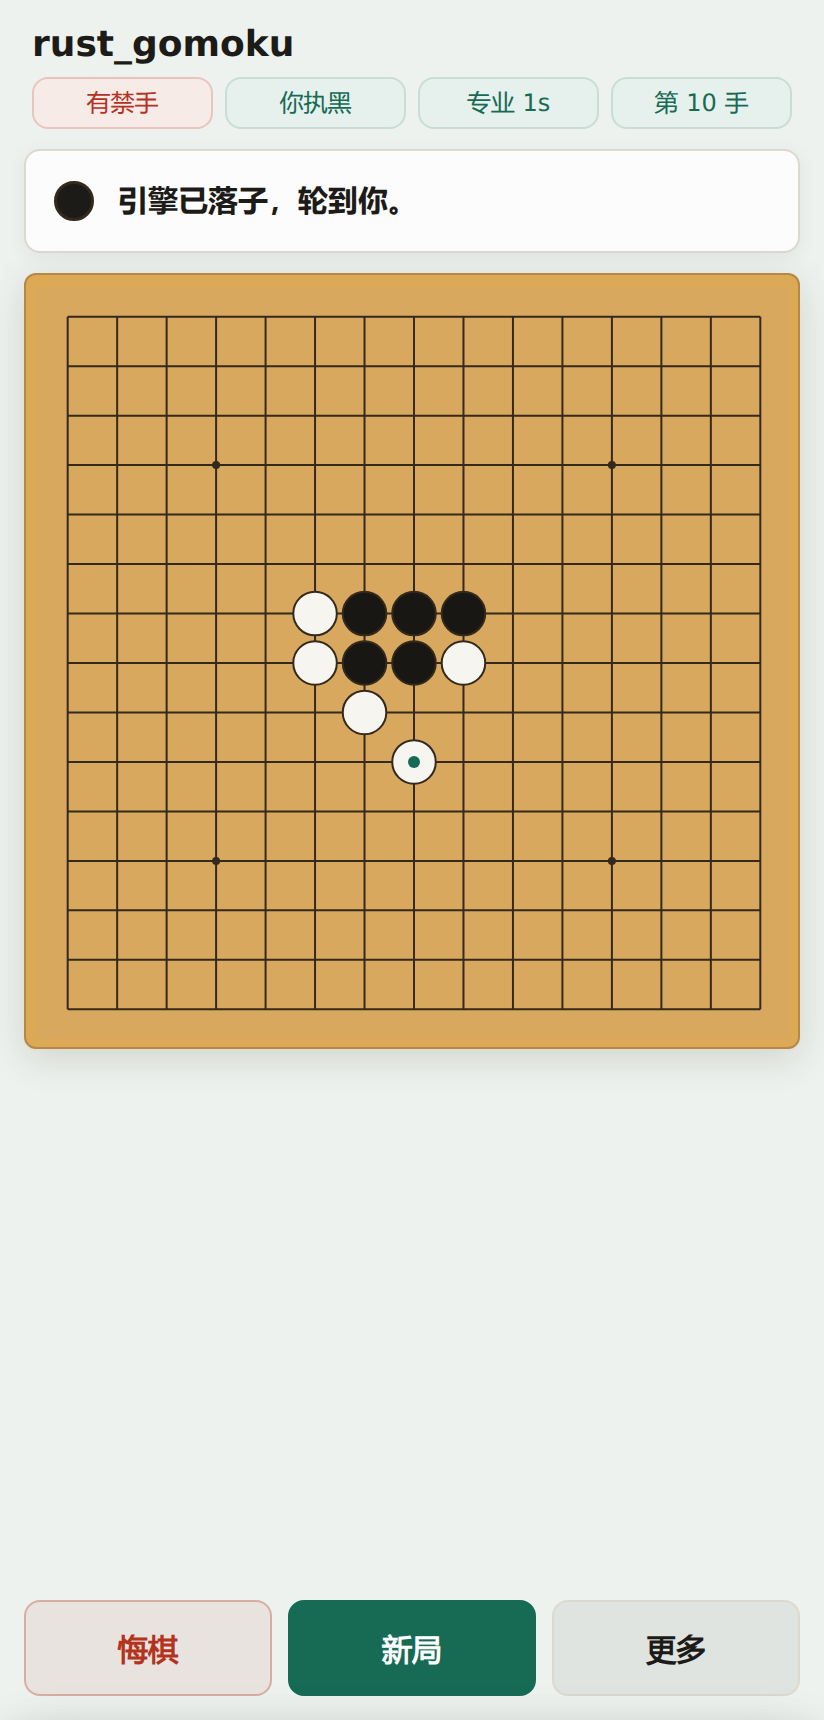
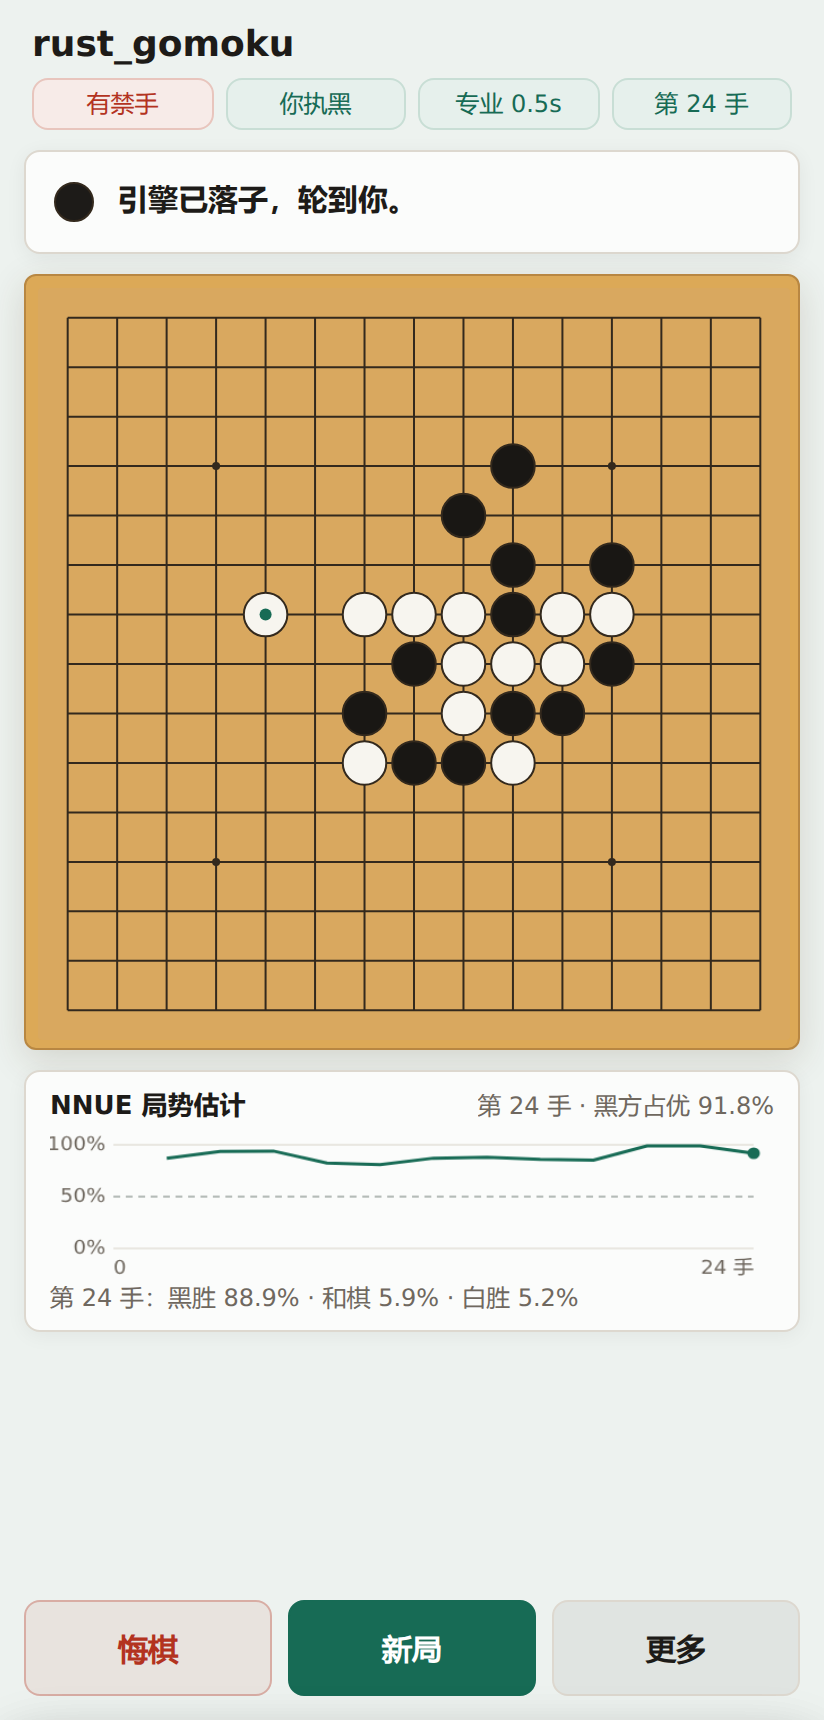
docs: expand README guides and refresh screenshots

diff --git a/README.md b/README.md
@@ -1,29 +1,46 @@
 # rust_gomoku
 
-`rust_gomoku` is a high-strength 15×15 Gomoku engine written in Rust. It supports Freestyle and Renju and is developed for strong play under practical time controls, reliable rule enforcement, and low search latency.
+`rust_gomoku` is a 15×15 Gomoku engine written in Rust, built for strong play under practical time controls. It supports **Freestyle** and **Renju** and powers a desktop browser interface, an Android app, and a Gomocup engine.
 
-[简体中文](README-cn.md) · [Downloads](https://github.com/chubbyk-uu/rust-gomoku/releases/latest) · [Documentation](docs/README.md)
+[简体中文](README-cn.md) · [Latest release](https://github.com/chubbyk-uu/rust-gomoku/releases/latest) · [Documentation](docs/README.md)
 
-- **Search** — native `Mix9svq` NNUE with SIMD acceleration, incremental board evaluation, tactical search, and Lazy SMP. Classical search supports play without network weights and the Casual difficulty presets.
-- **Play** — desktop browser UI and Android ARM64 app, with engine play and local two-player games. Pro mode offers a live NNUE win-rate estimate and selectable time per move.
-- **Integrate** — the `gomocup_engine` executable uses the Gomocup stdin/stdout protocol.
+## Download and play
 
-## Play
+| Platform | How to start |
+|---|---|
+| Windows x64 | Extract the release ZIP and run `gomoku_gui.exe`. It opens the game in your browser. Keep the bundled `nnue/` directory next to the executable for Pro mode. |
+| Android ARM64 | Install the signed APK from the release page. It includes the weights for both rules. An AAB is provided for distribution. |
+| Linux or Gomocup | Build from source and run the desktop interface or the `gomocup_engine` command below. |
 
-Download the Windows x64 build or the Android ARM64 APK from [GitHub Releases](https://github.com/chubbyk-uu/rust-gomoku/releases/latest). Android AABs are also provided for distribution.
+The desktop and Android interfaces support engine play and local two-player games. In Renju, the board marks forbidden moves for Black and rejects them as input.
 
-![Desktop GUI during a Renju game](docs/screenshots/desktop-gui.png)
+| Mode | What it uses |
+|---|---|
+| **Pro** | Native `Mix9svq` NNUE and a per-move budget of **1 second** by default. Also supports 0.5, 2.5, and 5 seconds, a multithreaded search toggle, and a win-rate estimate chart. |
+| **Casual** | Classical fixed-depth search at Beginner, Normal, Senior, or Master. It runs without NNUE weights. |
+
+## Screenshots
+
+**Desktop · Renju in Pro mode.** The right panel shows the NNUE win-rate estimate and the last move's search time.
+
+![Desktop game against the engine with a Renju board, move time, and NNUE win-rate chart](docs/screenshots/desktop-gui.png)
+
+**Android · Game and new-game settings.** These are browser captures of the released Android interface, connected to the Rust JNI bridge on the development machine.
 
 <p>
-  <img src="docs/screenshots/android-portrait.png" alt="Android Renju game in portrait mode" width="280">
-  <img src="docs/screenshots/android-difficulty.png" alt="Android Pro and Casual settings" width="280">
+  <img src="docs/screenshots/android-portrait.png" alt="Android portrait preview with the Renju board and win-rate chart" width="280">
+  <img src="docs/screenshots/android-difficulty.png" alt="Android new-game settings with Pro mode and time presets" width="280">
 </p>
 
-[Android landscape view](docs/screenshots/android-landscape.png)
+[View the Android landscape layout](docs/screenshots/android-landscape.png).
 
-Pro mode defaults to 1 second per move and also offers 0.5, 2.5, and 5 seconds. Casual mode offers Beginner, Normal, Senior, and Master. The UI marks and rejects forbidden black moves in Renju. See the [rules guide](docs/renju-forbidden-design.md) for supported rules and opening options.
+## Engine
 
-## Build and run
+The native NNUE engine combines incremental board patterns and evaluation, tactical QVCF, and Lazy SMP. Inference uses AVX2 or AVX-VNNI on supported x86-64 CPUs, and NEON with dot-product acceleration where available on ARM64.
+
+Freestyle uses one set of Mix9svq weights for both colors. Renju loads separate Black and White networks. The project uses compatible Rapfi weights. See the [engine guide](docs/engine.md#nnue-weights) for filenames, search paths, and classical presets.
+
+## Build from source
 
 ```bash
 cargo build --release --locked
@@ -31,21 +48,33 @@ cargo test --locked
 cargo run --release --bin gomoku_gui
 ```
 
-The desktop GUI opens `http://127.0.0.1:18080`. Use `-- --nnue-dir /path/to/weights` to load Pro weights explicitly. See the [engine guide](docs/engine.md#nnue-weights) for filenames and discovery order.
+The desktop interface opens at `http://127.0.0.1:18080`. To specify a weight directory, run `cargo run --release --bin gomoku_gui -- --nnue-dir /path/to/weights`.
 
-Run the Gomocup engine with NNUE:
+### Use the Gomocup engine
 
 ```bash
-target/release/gomocup_engine --nnue-dir /path/to/weights
+printf 'START 15\nINFO rule 4\nINFO timeout_turn 1000\nBEGIN\nEND\n' | \
+  target/release/gomocup_engine --nnue-dir /path/to/weights --threads 4
 ```
 
-For protocol options and a smoke test, see the [Gomocup guide](docs/gomocup.md). For Android builds and signing, see the [Android guide](docs/android-app-design.md).
+`INFO rule 4` selects Renju. Use `INFO rule 0` for Freestyle. Gomocup uses classical search when no weight directory is configured. The [protocol guide](docs/gomocup.md) covers clocks, memory, fixed-depth runs, and diagnostics. Build and signing instructions for Android are in the [Android guide](docs/android-app-design.md).
 
 ## Playing strength
 
-In the 2026-11-28 development build, a same-weight, 1-second-per-move match against Rapfi scored **50.92% over 600 games** across both rules and 1T/4T. The 95% interval was **49.25%–52.58%**. See the [results and reproducibility notes](docs/perf-log.md) for the individual matchups and Renju 1T repeat.
+The engine build tested for `v0.1.21` scored **50.92%** over 600 games against Rapfi at one second per move. Both engines used the same weights and thread counts, and each opening was played in both colors. Scores count draws as half a point.
 
-See [testing](docs/testing.md) for regression checks and match commands, and the [roadmap](docs/optimization-roadmap.md) for current development priorities.
+| Matchup | Games | W–L–D | Score |
+|---|---:|---:|---:|
+| Freestyle 1T | 100 | 39–40–21 | 49.50% |
+| Freestyle 4T | 100 | 43–34–23 | 54.50% |
+| Renju 1T | 200 | 85–84–31 | 50.25% |
+| Renju 4T | 200 | 82–80–38 | 50.50% |
+
+The combined 95% interval was **49.25%–52.58%**. A second run of the same Renju 1T matchup scored **53.00%**, for **51.63%** over the two runs. See the [match log](docs/perf-log.md) for the settings, timings, and paired comparisons.
+
+## Development
+
+Start with the [testing guide](docs/testing.md) for match commands, rule fixtures, and fixed-position regressions. The [documentation index](docs/README.md) links to the engine, Renju rules, and [current roadmap](docs/optimization-roadmap.md).
 
 ## License
 

diff --git a/README-cn.md b/README-cn.md
@@ -1,29 +1,46 @@
 # rust_gomoku
 
-`rust_gomoku` 是一个用 Rust 编写、以高棋力为目标的 15×15 五子棋引擎，支持自由五子棋（Freestyle）和连珠（Renju）。项目重点是实战限时下的棋力、规则正确性和搜索响应。
+`rust_gomoku` 是一个用 Rust 编写的 15×15 五子棋引擎，以实战限时下的棋力、规则正确性和搜索响应为目标。支持**自由五子棋（Freestyle）**和**连珠（Renju）**，提供桌面浏览器界面、Android 应用和 Gomocup 引擎。
 
-[English](README.md) · [下载](https://github.com/chubbyk-uu/rust-gomoku/releases/latest) · [文档目录](docs/README.md)
-
-- **搜索** — 原生 `Mix9svq` NNUE、SIMD 加速、增量棋盘评估、战术搜索和 Lazy SMP。经典搜索可在缺少权重时运行，也是休闲模式的基础。
-- **对弈** — 桌面浏览器界面和 Android ARM64 应用，支持人机与本地双人对弈。专业模式可切换单手用时，并显示 NNUE 胜率估计曲线。
-- **接入** — `gomocup_engine` 通过标准输入输出提供 Gomocup 协议。
+[English](README.md) · [下载最新版](https://github.com/chubbyk-uu/rust-gomoku/releases/latest) · [文档目录](docs/README.md)
 
 ## 下载和对弈
 
-在 [GitHub Releases](https://github.com/chubbyk-uu/rust-gomoku/releases/latest) 下载 Windows x64 版本或 Android ARM64 APK。Android 也提供用于分发的 AAB。
+| 平台 | 如何开始 |
+|---|---|
+| Windows x64 | 解压发布 ZIP，运行 `gomoku_gui.exe`，浏览器会打开棋盘。使用专业模式时，把随附的 `nnue/` 目录留在程序旁边。 |
+| Android ARM64 | 从发布页下载并安装签名 APK，已包含两种规则的权重。发布页也提供用于分发的 AAB。 |
+| Linux 或 Gomocup | 从源码构建后运行桌面界面，或按下文启动 `gomocup_engine`。 |
 
-![桌面界面的连珠对局](docs/screenshots/desktop-gui.png)
+桌面和 Android 均支持人机对弈和本地双人对弈。连珠模式下，棋盘会标出黑方禁手并拦截落子。
+
+| 模式 | 搜索与选项 |
+|---|---|
+| **专业** | 原生 `Mix9svq` NNUE，默认**单手 1 秒**，可选 0.5、2.5 或 5 秒。支持多线程切换和局势胜率估计曲线。 |
+| **休闲** | 使用经典固定深度搜索，分入门、普通、高级和大师四档。无需 NNUE 权重。 |
+
+## 界面截图
+
+**桌面 · 连珠专业模式。** 右侧显示 NNUE 胜率估计曲线和最近一手的搜索耗时。
+
+![桌面连珠人机对局，右侧显示搜索耗时和 NNUE 胜率曲线](docs/screenshots/desktop-gui.png)
+
+**Android · 对局和新局设置。** 这是发布包中 Android 界面的浏览器预览，连接开发机上的 Rust JNI 桥接运行。
 
 <p>
-  <img src="docs/screenshots/android-portrait.png" alt="Android 竖屏连珠对局" width="280">
-  <img src="docs/screenshots/android-difficulty.png" alt="Android 专业和休闲模式设置" width="280">
+  <img src="docs/screenshots/android-portrait.png" alt="Android 竖屏连珠棋盘和胜率曲线预览" width="280">
+  <img src="docs/screenshots/android-difficulty.png" alt="Android 新局设置中的专业模式和限时档位" width="280">
 </p>
 
-[Android 横屏界面](docs/screenshots/android-landscape.png)
+[查看 Android 横屏布局](docs/screenshots/android-landscape.png)。
 
-专业模式默认单手 1 秒，也可选 0.5、2.5 或 5 秒。休闲模式提供入门、普通、高级和大师四档。连珠对局中，界面会标记并拦截黑方禁手。支持的规则和开局范围见[连珠指南](docs/renju-forbidden-design.md)。
+## 引擎
 
-## 构建和运行
+原生 NNUE 搜索使用增量棋型与评估、QVCF 战术搜索和 Lazy SMP。推理在支持的 x86-64 CPU 上使用 AVX2 或 AVX-VNNI，在 ARM64 上使用 NEON，并在支持时启用点积加速。
+
+自由五子棋黑白共用一套 Mix9svq 权重，连珠黑白分别加载各自的权重。项目使用兼容的 Rapfi 权重，文件名、查找顺序和经典模式参数见[引擎指南](docs/engine.md#nnue-weights)。
+
+## 从源码构建
 
 ```bash
 cargo build --release --locked
@@ -31,21 +48,33 @@ cargo test --locked
 cargo run --release --bin gomoku_gui
 ```
 
-桌面界面会打开 `http://127.0.0.1:18080`。可在运行命令后加 `-- --nnue-dir /path/to/weights` 指定专业模式权重。文件名和查找顺序见[引擎指南](docs/engine.md#nnue-weights)。
+桌面界面会打开 `http://127.0.0.1:18080`。如需指定权重目录，运行 `cargo run --release --bin gomoku_gui -- --nnue-dir /path/to/weights`。
 
-启用 NNUE 的 Gomocup 引擎：
+### 启动 Gomocup 引擎
 
 ```bash
-target/release/gomocup_engine --nnue-dir /path/to/weights
+printf 'START 15\nINFO rule 4\nINFO timeout_turn 1000\nBEGIN\nEND\n' | \
+  target/release/gomocup_engine --nnue-dir /path/to/weights --threads 4
 ```
 
-协议参数和冒烟检查见 [Gomocup 指南](docs/gomocup.md)。Android 构建与签名见 [Android 指南](docs/android-app-design.md)。
+`INFO rule 4` 选择连珠，`INFO rule 0` 选择自由五子棋。Gomocup 未配置权重目录时使用经典搜索。局时、内存、固定深度和诊断参数见 [Gomocup 指南](docs/gomocup.md)，构建和签名见 [Android 指南](docs/android-app-design.md)。
 
 ## 棋力评测
 
-2026-11-28 的开发构建与 Rapfi 使用相同权重，在单手 1 秒、两种规则及 1T/4T 的 **600 局中得分 50.92%**，95% 区间为 **49.25%–52.58%**。各组成绩和 Renju 1T 复跑详见[性能与棋力日志](docs/perf-log.md)。
+`v0.1.21` 发布前验证的引擎在与 Rapfi 的 **600 局**对战中得分 **50.92%**。双方使用相同权重和线程数，每个开局换色各打一局，单手限时 1 秒。和棋计半分。
 
-回归及对战命令见[评测指南](docs/testing.md)，当前工作重点见[引擎路线图](docs/optimization-roadmap.md)。
+| 对战 | 局数 | 胜–负–和 | 得分率 |
+|---|---:|---:|---:|
+| Freestyle 1T | 100 | 39–40–21 | 49.50% |
+| Freestyle 4T | 100 | 43–34–23 | 54.50% |
+| Renju 1T | 200 | 85–84–31 | 50.25% |
+| Renju 4T | 200 | 82–80–38 | 50.50% |
+
+总得分率的 95% 区间为 **49.25%–52.58%**。同配置复跑 Renju 1T 得分 **53.00%**，两轮合计 **51.63%**。各组耗时、参数和配对比较见[棋力日志](docs/perf-log.md)。
+
+## 开发
+
+[评测指南](docs/testing.md)提供对战命令、规则用例及固定局面回归方法。[文档目录](docs/README.md)还包括引擎、连珠规则和[当前路线图](docs/optimization-roadmap.md)。
 
 ## 许可证
 
